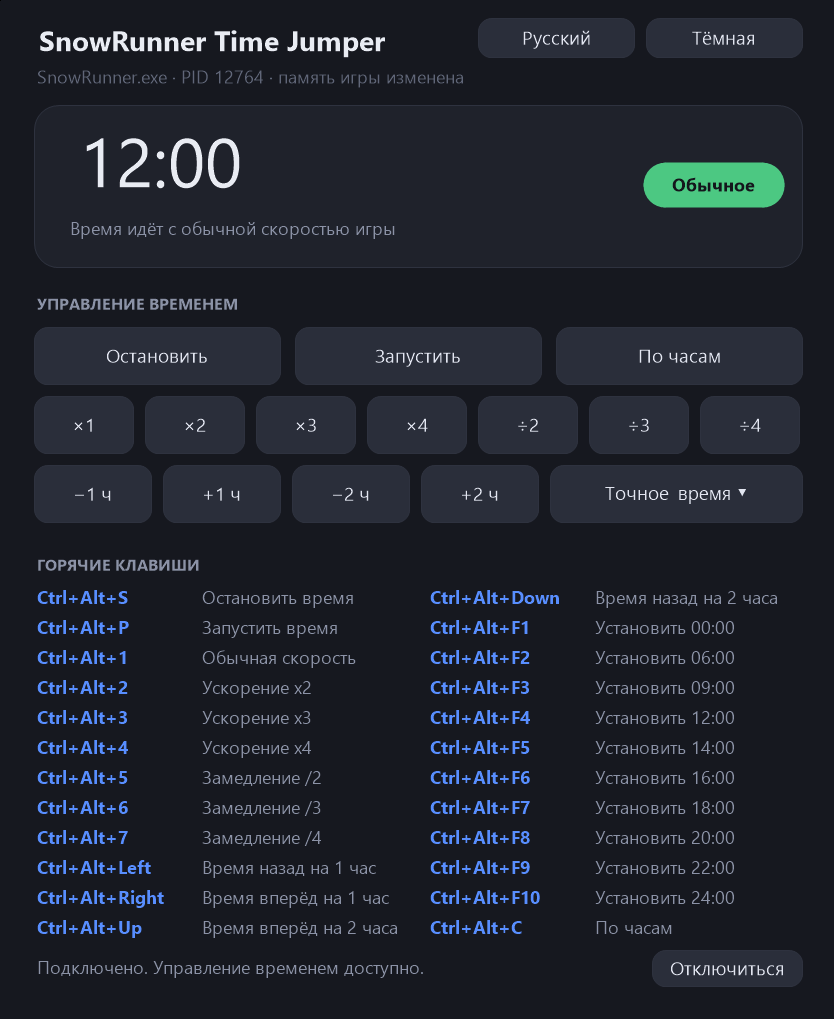
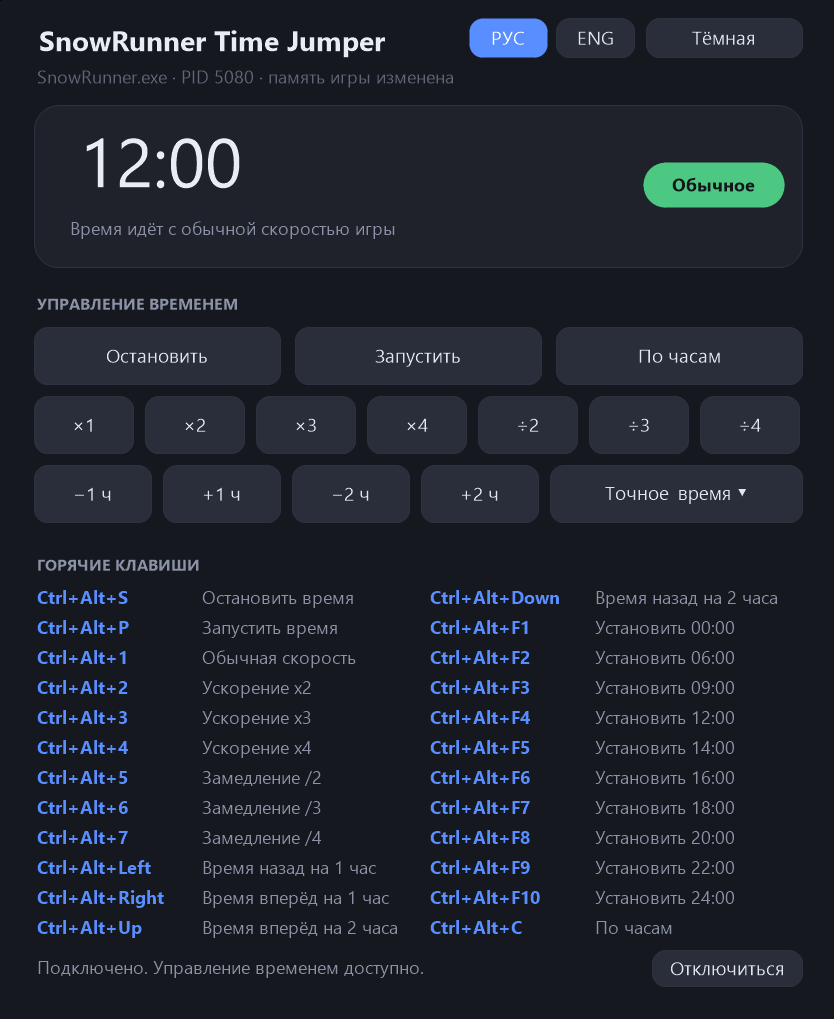
language switcher: two buttons RUS and ENG
- replaced the single cycling button (System -> Russian -> English -> System)
  with two side-by-side buttons, RUS and ENG; the active one is highlighted;
- removed the System option from the UI: the language is detected from the
  system at startup, and an explicit user choice is stored in settings.ini;
- while no language has been picked manually, the program follows the system
  language (including when the Windows language changes);
- the button captions are the same in both languages so they are easy to find.

Changed region(s): [[0.5612, 0.0, 0.7482, 0.0608], [0.2494, 0.0608, 0.5612, 0.0913]]

diff --git a/src/i18n.c b/src/i18n.c
@@ -46,9 +46,8 @@ static const WCHAR *const TEXTS[2][S_COUNT] = {
     [S_THEME_SYSTEM]       = L"Системная",
     [S_THEME_LIGHT]        = L"Светлая",
     [S_THEME_DARK]         = L"Тёмная",
-    [S_LANG_SYSTEM]        = L"Системный",
-    [S_LANG_RU]            = L"Русский",
-    [S_LANG_EN]            = L"English",
+    [S_LANG_RU]            = L"РУС",
+    [S_LANG_EN]            = L"ENG",
 
     [S_ST_CONNECTED]       = L"Подключено. Управление временем доступно.",
     [S_ST_DISCONNECTED]    = L"Отключено от игры, память игры восстановлена.",
@@ -160,9 +159,10 @@ static const WCHAR *const TEXTS[2][S_COUNT] = {
     [S_THEME_SYSTEM]       = L"System",
     [S_THEME_LIGHT]        = L"Light",
     [S_THEME_DARK]         = L"Dark",
-    [S_LANG_SYSTEM]        = L"System",
-    [S_LANG_RU]            = L"Russian",
-    [S_LANG_EN]            = L"English",
+    /* Подписи кнопок одинаковы в обоих языках: чтобы их можно было
+     * найти, не переключая язык. */
+    [S_LANG_RU]            = L"РУС",
+    [S_LANG_EN]            = L"ENG",
 
     [S_ST_CONNECTED]       = L"Connected. Time control is available.",
     [S_ST_DISCONNECTED]    = L"Disconnected, game memory restored.",
@@ -243,7 +243,11 @@ static const WCHAR *const TEXTS[2][S_COUNT] = {
 }
 };
 
-static LangMode g_mode = LANG_SYSTEM;
+static LangMode g_mode = LANG_RU;
+
+/* Язык выбран пользователем вручную? Если нет — программа следует
+ * за языком системы (например, при смене языка Windows). */
+static BOOL g_explicit = FALSE;
 
 /* ------------------------------------------------------------------ */
 
@@ -266,16 +270,13 @@ BOOL lang_system_is_russian(void)
 
 int lang_index(void)
 {
-    switch (g_mode) {
-    case LANG_RU: return 0;
-    case LANG_EN: return 1;
-    default:      return lang_system_is_russian() ? 0 : 1;
-    }
+    return (g_mode == LANG_RU) ? 0 : 1;
 }
 
 void lang_set_mode(LangMode mode)
 {
     g_mode = mode;
+    g_explicit = TRUE;
 }
 
 LangMode lang_mode(void)
@@ -283,19 +284,21 @@ LangMode lang_mode(void)
     return g_mode;
 }
 
+BOOL lang_is_explicit(void)
+{
+    return g_explicit;
+}
+
+void lang_follow_system(void)
+{
+    g_mode = lang_system_is_russian() ? LANG_RU : LANG_EN;
+    g_explicit = FALSE;
+}
+
 const WCHAR *L(StrId id)
 {
     if ((int)id < 0 || id >= S_COUNT) return L"";
     return TEXTS[lang_index()][id];
-}
-
-StrId lang_label(void)
-{
-    switch (g_mode) {
-    case LANG_RU: return S_LANG_RU;
-    case LANG_EN: return S_LANG_EN;
-    default:      return S_LANG_SYSTEM;
-    }
 }
 
 void lang_format(WCHAR *buf, int chars, StrId id, ...)
@@ -314,22 +317,30 @@ void lang_format(WCHAR *buf, int chars, StrId id, ...)
 void lang_load(void)
 {
     char value[64] = { 0 };
-    if (!settings_get("lang", value, sizeof(value))) {
-        srt_log("i18n: no 'lang' key, using the system language");
-        return;
+
+    /* Язык, выбранный пользователем, важнее языка системы. */
+    if (settings_get("lang", value, sizeof(value))) {
+        if (strcmp(value, "ru") == 0) {
+            g_mode = LANG_RU; g_explicit = TRUE;
+            srt_log("i18n: lang from settings = ru");
+            return;
+        }
+        if (strcmp(value, "en") == 0) {
+            g_mode = LANG_EN; g_explicit = TRUE;
+            srt_log("i18n: lang from settings = en");
+            return;
+        }
     }
-    if (strcmp(value, "ru") == 0)      g_mode = LANG_RU;
-    else if (strcmp(value, "en") == 0) g_mode = LANG_EN;
-    else                               g_mode = LANG_SYSTEM;
-    srt_log("i18n: lang from settings = %s, index = %d", value, lang_index());
+
+    /* Выбора нет — берём язык системы. */
+    lang_follow_system();
+    srt_log("i18n: no lang in settings, system language = %s",
+            g_mode == LANG_RU ? "ru" : "en");
 }
 
 void lang_save(void)
 {
-    const char *v = "system";
-    if (g_mode == LANG_RU) v = "ru";
-    else if (g_mode == LANG_EN) v = "en";
-    settings_set("lang", v);
+    settings_set("lang", g_mode == LANG_RU ? "ru" : "en");
 }
 
 void log_msg(StrId id, ...)

diff --git a/src/i18n.h b/src/i18n.h
@@ -2,18 +2,18 @@
  * i18n.h — локализация интерфейса.
  *
  * Программа стартует на языке системы: если он русский — на русском,
- * иначе на английском. Язык можно переключить в окне программы.
+ * иначе на английском. В окне есть две кнопки — «РУС» и «ENG».
  */
+
 #ifndef I18N_H_INCLUDED
 #define I18N_H_INCLUDED
 
 #include <windows.h>
 
-/* Режим языка интерфейса. */
+/* Язык интерфейса. Поддерживаются ровно два. */
 typedef enum {
-    LANG_SYSTEM = 0,   /* как в системе            */
-    LANG_RU,           /* русский                  */
-    LANG_EN            /* английский               */
+    LANG_RU = 0,        /* русский    */
+    LANG_EN             /* английский */
 } LangMode;
 
 /* Идентификаторы строк. Порядок должен совпадать с таблицей в i18n.c. */
@@ -53,9 +53,8 @@ typedef enum {
     S_THEME_SYSTEM,
     S_THEME_LIGHT,
     S_THEME_DARK,
-    S_LANG_SYSTEM,
-    S_LANG_RU,
-    S_LANG_EN,
+    S_LANG_RU,          /* подпись кнопки «РУС»  */
+    S_LANG_EN,          /* подпись кнопки «ENG»  */
 
     /* --- сообщения в строке состояния --- */
     S_ST_CONNECTED,
@@ -141,12 +140,12 @@ typedef enum {
     S_COUNT
 } StrId;
 
-/* Текущий режим языка. */
-void   lang_set_mode(LangMode mode);
+/* Текущий язык интерфейса. */
+void     lang_set_mode(LangMode mode);
 LangMode lang_mode(void);
 
 /* Индекс выбранного языка: 0 — русский, 1 — английский. */
-int    lang_index(void);
+int      lang_index(void);
 
 /* Перевод строки по идентификатору. */
 const WCHAR *L(StrId id);
@@ -154,15 +153,18 @@ const WCHAR *L(StrId id);
 /* Отформатировать переведённую строку в буфер (всегда с завершающим нулём). */
 void lang_format(WCHAR *buf, int chars, StrId id, ...);
 
-/* Название текущего режима языка для интерфейса (переводится). */
-StrId lang_label(void);
-
 /* Русский ли язык системы по умолчанию? */
 BOOL   lang_system_is_russian(void);
+
+/* Выбран ли язык вручную? Если нет — программа следует за языком системы. */
+BOOL   lang_is_explicit(void);
 
 /* Загрузить/сохранить язык из файла настроек. */
 void   lang_load(void);
 void   lang_save(void);
+
+/* Вернуться к языку системы (сброс ручного выбора). */
+void   lang_follow_system(void);
 
 /* Запись переведённой строки в журнал. */
 void   log_msg(StrId id, ...);

diff --git a/src/ui_draw.c b/src/ui_draw.c
@@ -6,6 +6,7 @@
 #include <math.h>
 #include "ui.h"
 #include "ui_theme.h"
+#include "i18n.h"
 
 /* ----------------------------- геометрия ---------------------------- */
 
@@ -17,7 +18,7 @@ typedef struct {
     int mode_x, mode_y, mode_w, mode_h;
     int chip_x, chip_y, chip_w, chip_h;
     int theme_x, theme_y, theme_w, theme_h;
-    int lang_x, lang_y, lang_w, lang_h;
+    int lang_ru_x, lang_en_x, lang_y, lang_w, lang_h;
     int sect_y, row_y[3], row_h, row_gap;
     int list_y, list_row_h, key_w, col_w;
     int status_y, status_w;
@@ -56,10 +57,11 @@ static void metrics(const UiState *st, int width, int height, UiMetrics *m)
     m->theme_h  = px(st, 26);
     m->theme_x  = width - m->pad - m->theme_w;
     m->theme_y  = px(st, 12);
-    m->lang_w   = px(st, 104);
+    m->lang_w   = px(st, 52);
     m->lang_h   = px(st, 26);
-    m->lang_x   = m->theme_x - px(st, 8) - m->lang_w;
     m->lang_y   = px(st, 12);
+    m->lang_en_x = m->theme_x - px(st, 8) - m->lang_w;      /* ENG — правее */
+    m->lang_ru_x = m->lang_en_x - px(st, 6) - m->lang_w;    /* РУС  — левее  */
     m->sect_y   = px(st, 194);
     m->row_h    = px(st, 38);
     m->row_gap  = px(st, 8);
@@ -132,11 +134,15 @@ void ui_layout(UiState *st, int width, int height)
     st->rect_status.right = m.x + m.w;
     st->rect_status.bottom = m.status_y + px(st, 34);
 
-    /* переключатели темы и языка в шапке */
+    /* переключатель темы и две кнопки выбора языка в шапке */
     add_button(st, m.theme_x, m.theme_y, m.theme_w, m.theme_h,
                UI_ACT_THEME, 0.0f, L(ui_theme_label()), UI_BTN_NORMAL);
-    add_button(st, m.lang_x, m.lang_y, m.lang_w, m.lang_h,
-               UI_ACT_LANG, 0.0f, L(lang_label()), UI_BTN_NORMAL);
+    add_button(st, m.lang_ru_x, m.lang_y, m.lang_w, m.lang_h,
+               UI_ACT_LANG_RU, 0.0f, L(S_LANG_RU),
+               lang_mode() == LANG_RU ? UI_BTN_ACCENT : UI_BTN_NORMAL);
+    add_button(st, m.lang_en_x, m.lang_y, m.lang_w, m.lang_h,
+               UI_ACT_LANG_EN, 0.0f, L(S_LANG_EN),
+               lang_mode() == LANG_EN ? UI_BTN_ACCENT : UI_BTN_NORMAL);
 
     if (!st->session && !st->demo) {
         add_button(st, m.x, m.row_y[0], m.w, m.row_h,
@@ -294,7 +300,7 @@ void ui_paint(UiState *st, HDC hdc, int width, int height)
 
     /* заголовок */
     gfx_text(target, L(S_HEADER),
-             m.x, m.title_y, m.w - m.lang_w - m.theme_w - px(st, 20), px(st, 26),
+             m.x, m.title_y, m.w - 2 * m.lang_w - m.theme_w - px(st, 26), px(st, 26),
              st->f_title, p->text, GFX_ALIGN_NEAR, GFX_LINE_CENTER);
 
     WCHAR sub[192];

diff --git a/src/ui_main.c b/src/ui_main.c
@@ -274,12 +274,11 @@ static void action_theme(UiState *st)
     set_status(st, S_ST_THEME_CHANGED);
 }
 
-static void action_lang(UiState *st)
+/* Выбор языка интерфейса кнопками «РУС» и «ENG». */
+static void set_lang(UiState *st, LangMode mode)
 {
-    LangMode m = lang_mode();
-    m = (m == LANG_SYSTEM) ? LANG_RU :
-        (m == LANG_RU)      ? LANG_EN : LANG_SYSTEM;
-    lang_set_mode(m);
+    if (lang_mode() == mode && lang_is_explicit()) return;
+    lang_set_mode(mode);
     lang_save();
     layout_now(st);
     InvalidateRect(st->hwnd, NULL, FALSE);
@@ -301,7 +300,8 @@ static void perform(UiState *st, UiAction action, float value)
     case UI_ACT_ATTACH: action_attach(st); break;
     case UI_ACT_DETACH: action_detach(st); break;
     case UI_ACT_THEME:  action_theme(st); break;
-    case UI_ACT_LANG:   action_lang(st); break;
+    case UI_ACT_LANG_RU: set_lang(st, LANG_RU); break;
+    case UI_ACT_LANG_EN: set_lang(st, LANG_EN); break;
     case UI_ACT_PRESET_MENU: break;   /* обрабатывается отдельно */
     }
     layout_now(st);
@@ -625,8 +625,10 @@ static LRESULT CALLBACK wnd_proc(HWND hwnd, UINT msg, WPARAM wParam, LPARAM lPar
             ui_theme_set(UI_THEME_SYSTEM);
             InvalidateRect(hwnd, NULL, FALSE);
         }
-        if (lang_mode() == LANG_SYSTEM) {
-            lang_set_mode(LANG_SYSTEM);
+        /* Язык системы учитывается, только пока пользователь не выбрал
+         * язык вручную кнопкой «РУС»/«ENG». */
+        if (!lang_is_explicit()) {
+            lang_follow_system();
             layout_now(st);
             InvalidateRect(hwnd, NULL, FALSE);
         }
@@ -751,7 +753,6 @@ int WINAPI WinMain(HINSTANCE hinst, HINSTANCE hprev, LPSTR cmdline, int show)
     /* тема оформления и язык интерфейса: по умолчанию — как в системе */
     ui_theme_set(UI_THEME_SYSTEM);
     ui_theme_load();
-    lang_set_mode(LANG_SYSTEM);
     lang_load();
 
     WNDCLASSEXW wc;

diff --git a/src/ui.h b/src/ui.h
@@ -20,7 +20,8 @@ typedef enum {
     UI_ACT_ATTACH,
     UI_ACT_DETACH,
     UI_ACT_THEME,       /* переключить тему оформления */
-    UI_ACT_LANG        /* переключить язык интерфейса */
+    UI_ACT_LANG_RU,     /* выбрать русский язык      */
+    UI_ACT_LANG_EN      /* выбрать английский язык   */
 } UiAction;
 
 typedef enum {

diff --git a/README.md b/README.md
@@ -12,14 +12,15 @@
 ## Язык интерфейса
 
 Программа определяет язык системы при запуске: если он русский — интерфейс
-на русском, любой другой — на английском. Язык можно переключить кнопкой в
-правом верхнем углу окна (Системный → Русский → English → Системный).
+на русском, любой другой — на английском. В правом верхнем углу окна есть две
+кнопки — **РУС** и **ENG**; текущий язык подсвечен. Выбранный вручную язык
+сохраняется и применяется при следующем запуске.
 
-Выбор сохраняется в файле `%LOCALAPPDATA%\SnowRunnerTimeJumper\settings.ini`
-(там же хранится тема оформления), поэтому язык можно задать и вручную:
+Выбор хранится в файле `%LOCALAPPDATA%\SnowRunnerTimeJumper\settings.ini`
+(там же тема оформления), поэтому язык можно задать и вручную:
 
 ```ini
-lang=ru      ; или en, либо system
+lang=ru      ; или en (если ключа нет — берётся язык системы)
 theme=dark   ; или light, либо system
 ```
 

diff --git a/CHANGELOG.md b/CHANGELOG.md
@@ -3,8 +3,10 @@
 ## Не выпущено
 
 * Английский и русский интерфейс: язык определяется по языку системы при
-  запуске, в окне появилась кнопка переключения языка (Системный → Русский →
-  English → Системный). Выбор хранится в `settings.ini` рядом с темой оформления.
+  запуске, в правом верхнем углу окна — две кнопки **РУС** и **ENG**
+  (активный язык подсвечен). Выбранный вручную язык хранится в `settings.ini`
+  рядом с темой оформления; пока язык не выбран, программа следует за языком
+  системы.
 * Переведены все надписи, статусы, сообщения об ошибках и записи журнала.
 * Сборка теперь отслеживает зависимости от заголовков (`-MMD -MP`).
 * Сквозной тест переведён с `cmd` на PowerShell.
